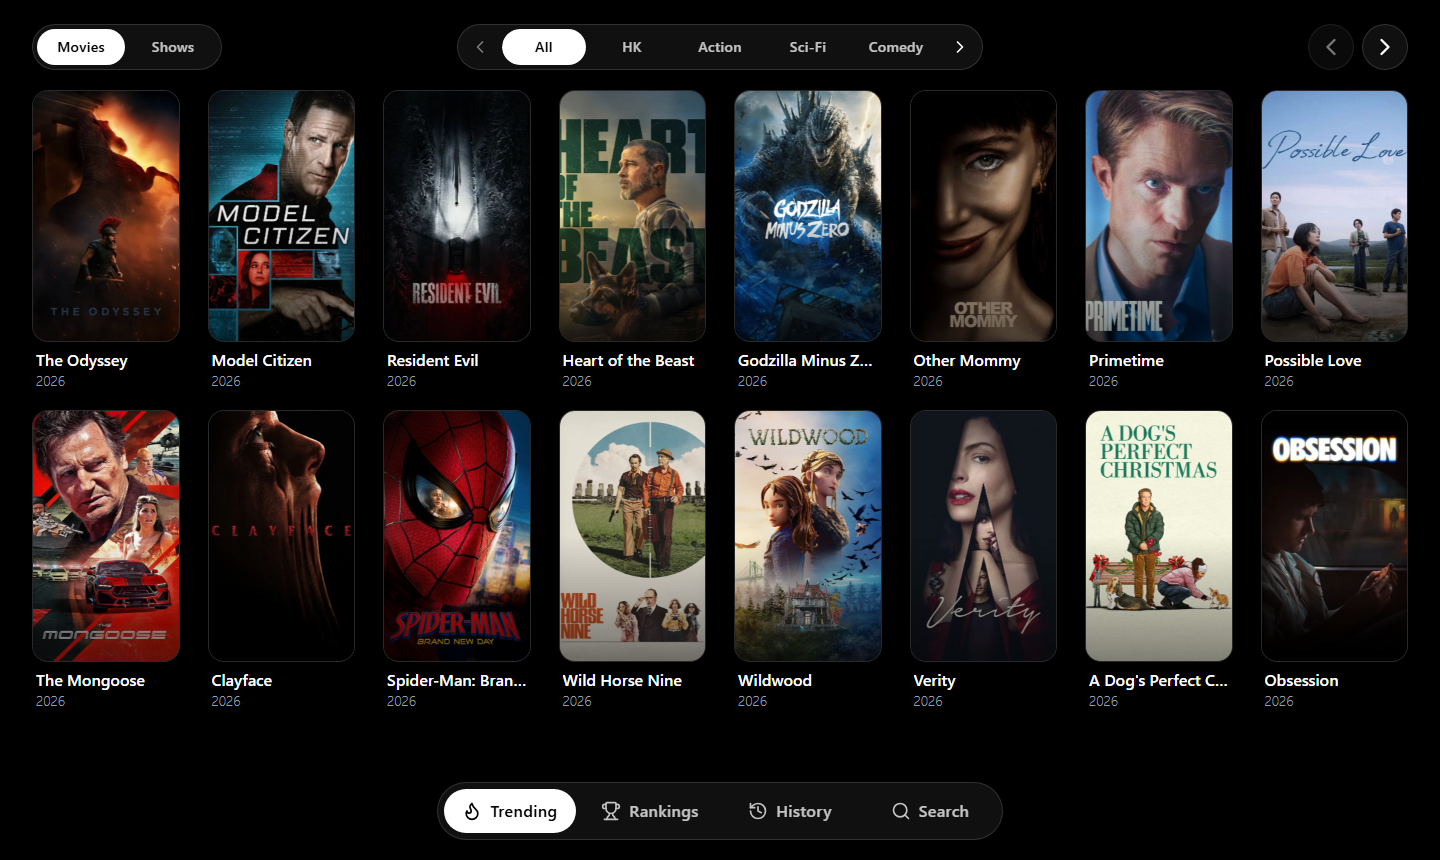
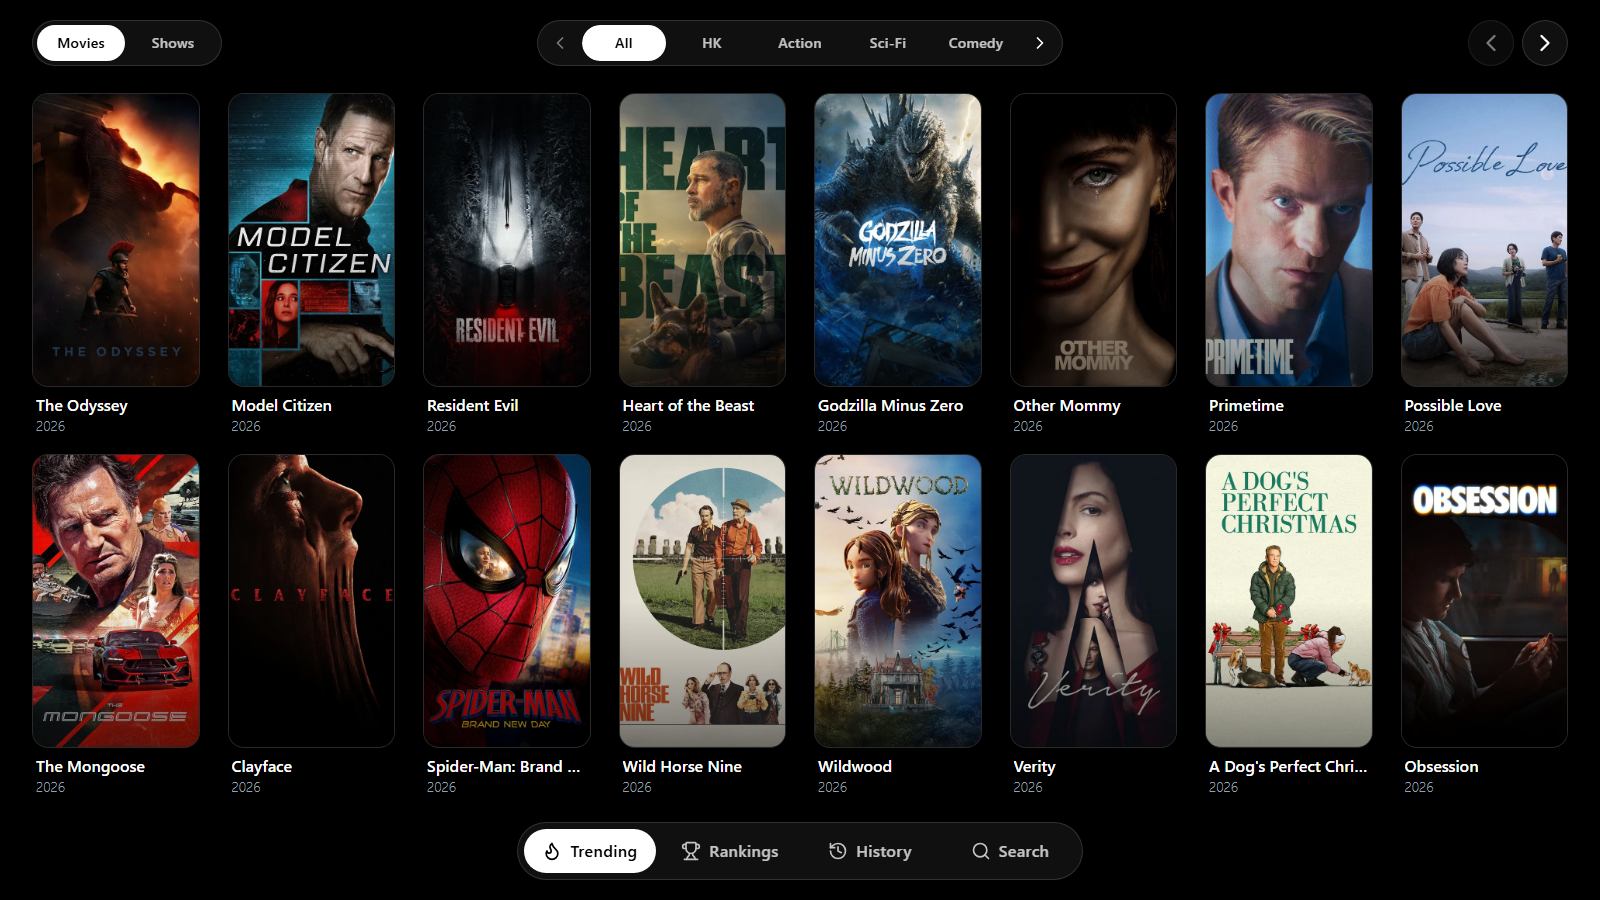
docs(assets): update preview.png, og-image.png, and README after layout update

diff --git a/index.html b/index.html
@@ -35,7 +35,7 @@
     <meta property="og:site_name" content="101Movies" />
     <meta property="og:title" content="101Movies" />
     <meta property="og:description" content="Discover and stream trending movies and popular TV shows in high definition. Fast, ad-free streaming with smart TV navigation and real-time TMDB integration." />
-    <meta property="og:image" content="https://101movies.pages.dev/og-image.png?v=2" />
+    <meta property="og:image" content="https://101movies.pages.dev/og-image.png?v=3" />
     <meta property="og:image:width" content="1200" />
     <meta property="og:image:height" content="630" />
     <meta property="og:image:alt" content="101Movies - Cinematic Streaming Platform" />
@@ -46,7 +46,7 @@
     <meta name="twitter:url" content="https://101movies.pages.dev/" />
     <meta name="twitter:title" content="101Movies" />
     <meta name="twitter:description" content="Discover and stream trending movies and popular TV shows in high definition. Fast, ad-free streaming with smart TV navigation." />
-    <meta name="twitter:image" content="https://101movies.pages.dev/og-image.png?v=2" />
+    <meta name="twitter:image" content="https://101movies.pages.dev/og-image.png?v=3" />
 
     <!-- Structured Data (JSON-LD) -->
     <script type="application/ld+json">

diff --git a/src/pages/Player.tsx b/src/pages/Player.tsx
@@ -98,7 +98,7 @@ function estimatePillSlotWidth(
 const DEFAULT_SITE_TITLE = "101Movies";
 const DEFAULT_SITE_DESC =
   "Discover and stream trending movies and popular TV shows in high definition. Fast, ad-free streaming with smart TV navigation and real-time TMDB integration.";
-const DEFAULT_SITE_IMAGE = "https://101movies.pages.dev/og-image.png?v=2";
+const DEFAULT_SITE_IMAGE = "https://101movies.pages.dev/og-image.png?v=3";
 
 function setHeadMeta(selector: string, attr: string, value: string): void {
   if (typeof document === "undefined") return;

diff --git a/functions/player/[type]/[id].ts b/functions/player/[type]/[id].ts
@@ -45,7 +45,7 @@ function buildOgMetadata(
     ? `${metaParts.join(" · ")} — ${overview}`
     : `Watch ${title} (${metaParts.join(" · ")}) on 101Movies.`;
 
-  let imageUrl = `${origin}/og-image.png?v=2`;
+  let imageUrl = `${origin}/og-image.png?v=3`;
   let imageWidth = "1200";
   let imageHeight = "630";
 

diff --git a/README.md b/README.md
@@ -8,7 +8,7 @@ A minimalist, zero-scroll movie and TV show discovery and streaming web applicat
 
 ## Features
 
-- **Zero-Scroll Responsive Grid**: Adapts cleanly across screen sizes without vertical page scrolling (`2` columns on portrait mobile, `3` on small screens, `6` on `md` desktop, `8` on `xl` wide displays, and a `1`-row layout for mobile landscape viewports).
+- **Zero-Scroll Aspect-Aware Grid**: Dynamically adapts column and row density (`2`–`8` columns, `1`–`3` rows via `getGridLayout`) to viewport width and height so posters maintain natural framing and uniform vertical spacing across portrait phones, tablets, tall monitors, widescreen desktops, and mobile landscape viewports.
 - **Floating Bottom Navigation Capsule**: Smooth sliding indicator between four standalone top-level views:
   - **Trending (`/`):** Browse trending Movies and Shows by category with capsule switchers, pagination buttons, and horizontal touch swipe support.
   - **Rankings (`/rankings`):** Top-rated Movies and Shows ranked by genre and release year (`1970` to current year) with scrollable capsule pickers and ranked badges.
